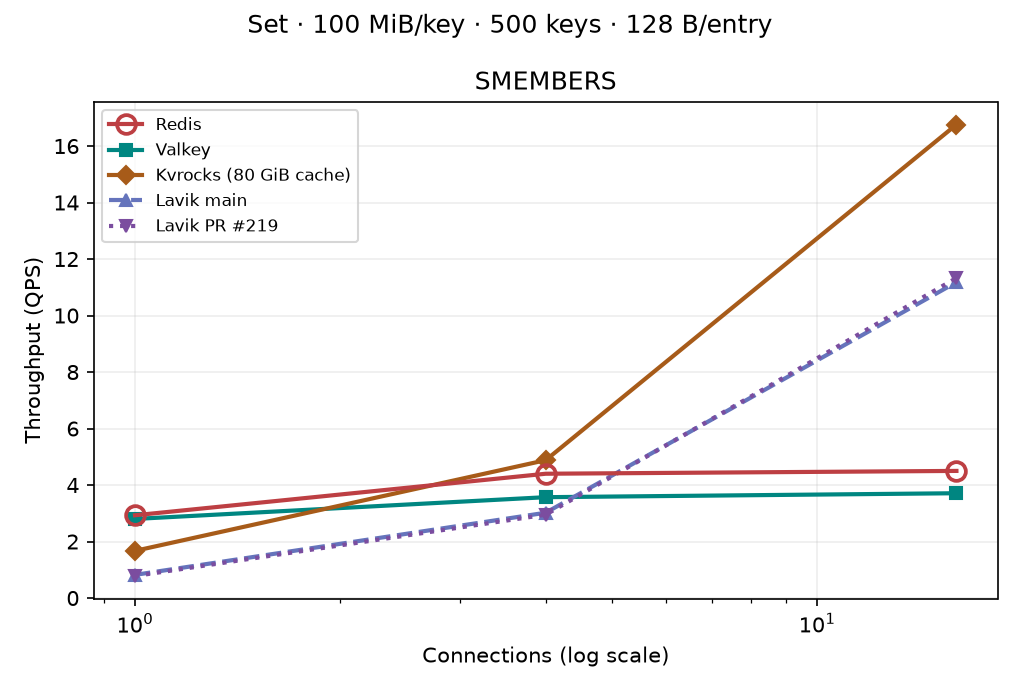
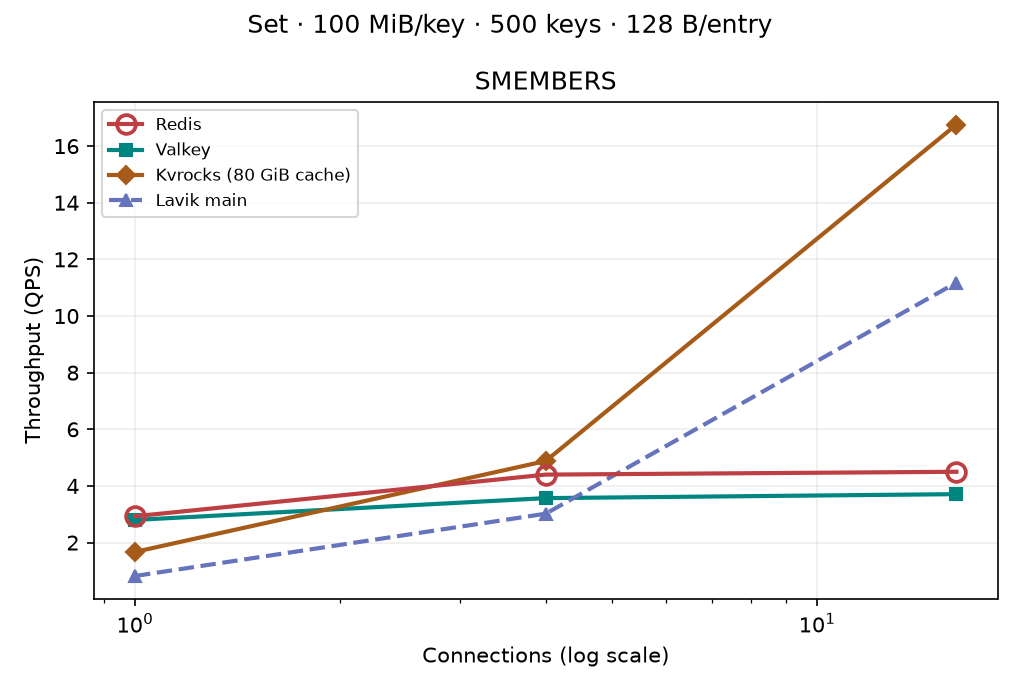
perf: remove merged PR219 curves and intermediate import comparisons

diff --git a/perf_reports/lavik-complex-structures-2026-09-26/README.md b/perf_reports/lavik-complex-structures-2026-09-26/README.md
@@ -32,7 +32,7 @@ ineffective FLUSH commands on VWC=0 controllers; data-before-commit ordering is 
 This single-field HSET workload does not exercise the multi-field index optimization.
 Main merged #223 (Meta connection handling) during measurement; the code is being rebased,
 and these curves identify the exact measured commits above.
-Set 100 MiB/128 B still shows the preceding main `4c26af7b` and PR #219 `d1f58feb`, pending its rerun.
+Set 100 MiB/128 B temporarily retains only the preceding main `4c26af7b`; updated main and PR #222 runs are pending.
 Other sizes do not yet include PR #222. Each point is one eight-second measurement.
 [Raw Hash main data](raw/lavik-maine5-hash-100m-k500-f128-20260930/) and
 [PR data](raw/lavik-pr222c98-hash-100m-k500-f128-20260930/) are available for inspection.
@@ -94,19 +94,11 @@ Each point-read/write chart contains both commands. The 1 MiB and 100 MiB runs u
 
 ### RESTORE
 
-#### 100 MiB per key
+#### 100 MiB
 
-![Hash 100 MiB, 128 B, 500 keys: fill times across four databases](charts/hash-104857600-128-k500-fill.png)
-
-The latest PR #219 used eight RESTORE clients to fill 500 Hash keys on empty SPDK devices
-in 362.7 seconds. All 500 keys and 819,200 fields per key validated. Redis,
-Valkey, and Kvrocks took 328.6, 276.3, and 488.8 seconds with batched HSET.
-The commands and persistence settings differ, so the figure records elapsed
-time for this workload rather than equal durability throughput. The
-[measurements](hash-104857600-128-k500-fill.csv) and
-[plot script](plot_fill_reference.py) point to the raw runs. The previous PR
-version with a fixed 128 MiB cap took 591.3 seconds. Peak reported memory
-was about 5.15 GiB in the latest run versus 4.83 GiB previously.
+#219 is merged. Its intermediate import comparison plots have been removed;
+merged-main import measurements are pending. [Historical raw measurements](hash-104857600-128-k500-fill.csv)
+remain available for inspection and do not represent current main.
 
 ## Set
 
@@ -142,46 +134,11 @@ Each point-read/write chart contains both commands. The 1 MiB and 100 MiB runs u
 
 ### RESTORE
 
-#### 100 MiB per key
+#### 100 MiB
 
-![Set 100 MiB, 128 B, 500 keys: fill times across four databases](charts/set-104857600-128-k500-fill.png)
-
-The latest PR #219 used eight RESTORE clients to fill 500 Set keys on empty SPDK devices
-in 548.7 seconds. All 500 keys and 819,200 members per key validated. Redis,
-Valkey, and Kvrocks took 354.0, 264.5, and 545.0 seconds with batched SADD.
-The commands and persistence settings differ, so the figure records elapsed
-time for this workload rather than equal durability throughput. The
-[measurements](set-104857600-128-k500-fill.csv) and
-[plot script](plot_fill_reference.py) point to the raw runs. The previous PR
-version with a fixed 128 MiB cap took 760.5 seconds; older Lavik `d1ce200e`
-took 10,739 seconds for 500 RESTORE commands. Neither is the latest main A/B
-baseline.
-
-For a controlled Set 100 MiB/128 B RESTORE comparison, each Lavik build
-loaded the same RDB payload into 100 distinct keys with eight clients after
-clearing the six SPDK devices. Current `main` took 2,072.4 seconds; the 8 MiB
-batch and touched-group deduplication branch took 484.0 seconds; the fixed
-128 MiB cap took 151.5 seconds; the memory-scaled batch and hash-indexed
-duplicate validation took 112.3 seconds, 18.5 times faster than the same
-`main`. All four runs validated every key and its 819,200 members without
-errors. The 100-key dynamic-batch result is from pre-rebase commit `a998d79d`;
-the 500-key current PR result above is from `d1f58feb` based on `4c26af7b`.
-
-![Set 100 MiB, 128 B, 100 keys: Lavik RESTORE fill-time comparison](charts/set-104857600-128-k100-restore-ab.png)
-
-The [RESTORE A/B measurements](set-104857600-128-k100-restore-ab.csv) and
-[plot script](plot_restore_import_ab.py) record source commits, binary hashes,
-and checks on the identical RDB payload.
-
-#### 256 MiB boundary validation
-
-To check that larger objects still import after removing the fixed 128 MiB
-batch maximum, PR #219 also
-RESTOREd eight 256 MiB Set keys with 1 KiB members in 20.2 seconds. All eight
-keys and their 262,144 members validated; peak reported memory was about
-1.28 GiB. This is a single-product correctness and memory check, separate
-from the four-product performance charts. The [raw run](raw/lavik-import-d1f58feb-set-256m-k8-f1024-20260929/)
-keeps seed provenance, build identification, and validation results.
+#219 is merged. Its intermediate import comparison plots have been removed;
+merged-main import measurements are pending. [Historical raw measurements](set-104857600-128-k500-fill.csv)
+remain available for inspection and do not represent current main.
 
 ## Workloads
 
